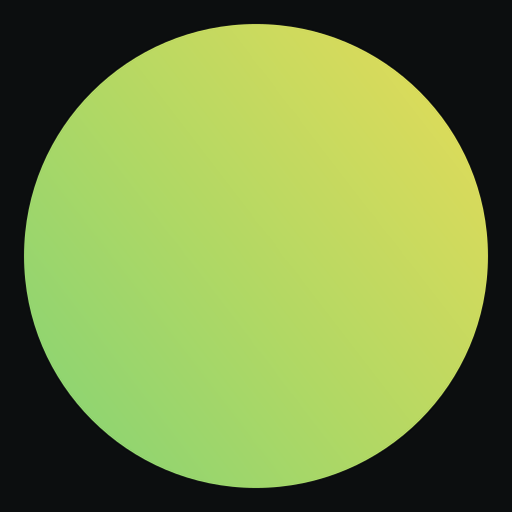
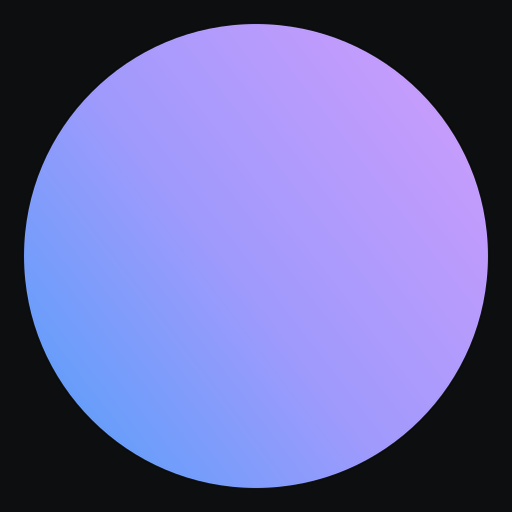
Move the accent family and hero wash from green/yellow to blue/purple
New default wash, `iris`: a bright blue highlight (H 252) falling into deep
purple (H 300). It sits under the 60° span floor and holds together on a 0.22
lightness gap instead, the way `fuchsia` does. `teal` stays as an alternate.

Tokens follow the wash: accent `oklch(0.7 0.15 258)` (7.2:1, down from 10.9:1 —
blues clip above L ≈ 0.72 at this chroma), accent-warm `oklch(0.76 0.15 305)`,
both ramps blue→periwinkle→purple, and the ink greys moved from H 150/160 to
H 280 so large type loses its green cast. ink-faint goes to L 0.61 to hold 5.1:1.

`--color-status` stays green on purpose: green means go.

Favicon, touch/manifest icons and the default OG card regenerated from the new
palette. Docs and comments updated to match.

diff --git a/src/styles/global.css b/src/styles/global.css
@@ -111,15 +111,15 @@
   /* Colour. Dark is the only mode. The surface is a near-neutral dark grey
      (almost black) — colour comes from the accents and the hero wash, not the
      page itself. Chroma is kept minimal so it never reads as a tinted page. */
-  --color-ink: oklch(0.97 0.005 150);
-  --color-ink-dim: oklch(0.72 0.012 160); /* ~7.6:1 on --color-surface */
+  --color-ink: oklch(0.97 0.005 280);
+  --color-ink-dim: oklch(0.72 0.012 280); /* ~7.6:1 on --color-surface */
   /* Used almost exclusively at 12px, where WCAG AA needs 4.5:1. Do not darken
      below L≈0.58. */
-  --color-ink-faint: oklch(0.6 0.014 160);
+  --color-ink-faint: oklch(0.61 0.014 280);
   /* Lead copy — any paragraph set larger than `--text-body`.
      Neutral white with alpha rather than a tinted grey: `--color-ink-dim` sits
-     at hue 160 with a little chroma, which is invisible at body size but reads
-     as a faint green cast once the type is big. Before this existed, large
+     at hue 280 with a little chroma, which is invisible at body size but reads
+     as a faint violet cast once the type is big. Before this existed, large
      paragraphs were split four ways across `text-white/90`, `text-white/70`,
      `text-ink` and `text-ink-dim`. */
   --color-ink-lead: oklch(1 0 0 / 0.82);
@@ -131,7 +131,7 @@
      so the frame stays consistent over any backdrop. */
   --color-line: oklch(1 0 0 / 0.14);
 
-  /* The brand green, seated in the same family as the hero wash.
+  /* The brand blue, seated in the same family as the hero wash.
 
      **Keep it inside sRGB.** An earlier value, `oklch(0.84 0.19 168)`, was out
      of gamut — its red channel resolved to -0.065 and got clamped to zero, so it
@@ -139,36 +139,29 @@
      rather than the colour written down. That clipping is what made it read
      electric-mint next to a wash whose own teal tops out at C 0.12.
 
-     H 174 fixed the clipping but still read minty: mint is a *light blue-green*,
-     and the fix for that is hue, not chroma. This sits at H 138 — a yellow-green
-     that leans toward <NoiseGradient>'s khaki highlight (H 100) rather than its
-     teal blob (H 178), chosen against the live hero. 10.9:1 on --color-surface,
-     so it still clears AA comfortably as small link text.
+     This sits at H 258 — a bright blue on <NoiseGradient>'s `iris` highlight
+     (H 252), so links and the h1's full stop read as part of the light source.
+     7.2:1 on --color-surface, comfortably clear of AA as small link text.
 
-     **Greens have room and warm hues do not**, which is the one thing worth
-     carrying forward from the coral this reverted to green from. sRGB's warm
-     quadrant is its smallest — the red channel saturates at 255 long before the
-     other two — so the chroma ceiling falls steeply as lightness rises: measured
-     at H 22, C 0.155 at L 0.74 but only C 0.10 at L 0.82. This green holds C 0.15
-     at L 0.80 without trying. If the family is ever taken warm again, the rule is
-     lower the lightness to buy the chroma back; raising L and holding C ships a
-     pale salmon, or clips. */
-  --color-accent: oklch(0.8 0.15 138);
-  /* The warm end, on the hero wash's own khaki highlight, so gradient tails
-     resolve into a colour already present in the backdrop. Only 30° from the
-     accent now that the accent is itself yellow-green — that is deliberately
-     tight, but it is the whole room the ramps have. Don't push the accent any
-     warmer without moving this too, or the gradients flatten out entirely.
+     **Blues have far less headroom than the green this replaced.** The green
+     held C 0.15 at L 0.80 without trying; at H 250–260 C 0.15 clips above
+     L ≈ 0.72, which is why this is darker than the green was. If it ever needs
+     to be brighter, drop the chroma — raising L and holding C clips the red
+     channel. The warm quadrant is tighter still (at H 22, C 0.155 at L 0.74 but
+     only C 0.10 at L 0.82): either way, lower the lightness to buy chroma back. */
+  --color-accent: oklch(0.7 0.15 258);
+  /* The far end, a lilac purple on the hero wash's own purple body (H 300), so
+     gradient tails resolve into a colour already present in the backdrop. 47°
+     from the accent — enough to read as blue *into* purple rather than one
+     colour, without the ramps becoming a rainbow swipe. The name is historical
+     (it was the yellow end); the role is the same.
      Secondary: gradient tails, never body text. */
-  --color-accent-warm: oklch(0.86 0.15 108);
+  --color-accent-warm: oklch(0.76 0.15 305);
   /* Availability indicator. Kept as its own token so the signal can be retuned
-     independently, but pulled into the accent's family — the dot and the brand
-     mark share a nav, and two different greens there read as a mistake.
-     Slightly lighter than the accent so it still registers as "lit". 12.6:1.
-
-     Green also means go, which is worth having back: the label beside it reads
-     "Available for work", so the words carry the meaning either way, but a green
-     dot needs no reading at all. */
+     independently. **Deliberately left green** when the accent went blue/purple:
+     green means go, and a green dot needs no reading at all. It is the one
+     colour on the page outside the accent family, and small enough to carry it.
+     12.4:1. */
   --color-status: oklch(0.84 0.14 140);
 
   /* Motion — shared between CSS and GSAP so the two never disagree. */
@@ -348,18 +341,18 @@
   /* The two accent ramps. `--gradient-accent` is built for a headline's width;
      `--gradient-accent-compact` starts warmer and finishes inside the box, for
      runs of four or five glyphs — a stat figure, a number disc, an icon tile.
-     Pick by run length: across 24px the long ramp never leaves its green. */
+     Pick by run length: across 24px the long ramp never leaves its blue. */
   --gradient-accent: linear-gradient(
     120deg,
-    oklch(0.77 0.14 160),
-    var(--color-accent) 45%,
-    oklch(0.86 0.15 112)
+    var(--color-accent),
+    oklch(0.72 0.14 280) 45%,
+    var(--color-accent-warm)
   );
   --gradient-accent-compact: linear-gradient(
     110deg,
     var(--color-accent) 0%,
-    oklch(0.83 0.15 125) 45%,
-    oklch(0.87 0.15 108) 100%
+    oklch(0.73 0.14 285) 45%,
+    oklch(0.77 0.14 305) 100%
   );
 }
 
@@ -407,20 +400,15 @@
 
      **Keep the hue span narrow, and every stop inside sRGB.** Both ramps used
      to run cyan→green→yellow, roughly 88° of hue, which on a two-word phrase
-     reads as a rainbow swipe rather than a sheen on the brand colour. Both are
-     now ~48°, sitting either side of `--color-accent`. If a ramp ever needs
+     reads as a rainbow swipe rather than a sheen on the brand colour. Both now
+     run ~47°, from `--color-accent`'s blue to `--color-accent-warm`'s purple. If a ramp ever needs
      more range, widen the lightness, not the hue.
 
-     Chroma is held at 0.13-0.14 throughout for the same reason `--color-accent`
+     Chroma is held at 0.14–0.15 throughout for the same reason `--color-accent`
      is: past that, these hues fall out of sRGB at these lightnesses and the
      browser clamps a channel, which reads as a hard electric edge partway
-     along the ramp.
-
-     That flat chroma is a *green* luxury and would not survive going warm. The
-     warm quadrant's ceiling falls steeply as lightness rises (roughly C 0.15 at
-     L 0.74, C 0.10 at L 0.82), so a coral version of these ramps needs every
-     stop at its own maximum instead — worth knowing before anyone tries it
-     again.
+     along the ramp. Lightness rises along the ramp (0.70 → 0.77) because purple
+     has more headroom than blue — the blue end is the one at its ceiling.
 
      The descendant selector matters: SplitText rewraps the hero heading and
      moves the period's text into a child element, which would leave the span
@@ -435,11 +423,11 @@
     color: transparent;
   }
 
-  /* The same green→yellow idea, retuned for stat figures.
+  /* The same blue→purple idea, retuned for stat figures.
 
      `.accent-gradient` is built for long runs of text — a full headline — so
      its 120deg ramp only reaches the warm end after a good deal of width. A
-     stat is four or five glyphs, which lands entirely inside the green and
+     stat is four or five glyphs, which lands entirely inside the blue and
      reads as flat colour. This starts warmer and finishes the ramp inside the
      box, so the warm end is actually visible at "98%". */
   .stat-gradient {

diff --git a/docs/design-system/tokens.md b/docs/design-system/tokens.md
@@ -15,18 +15,18 @@ the page.
 
 | Token | Value | Notes |
 | --- | --- | --- |
-| `--color-ink` | `oklch(0.97 0.005 150)` | Headings, display narrative, `<dd>` values |
+| `--color-ink` | `oklch(0.97 0.005 280)` | Headings, display narrative, `<dd>` values |
 | `--color-ink-lead` | `oklch(1 0 0 / 0.82)` | Lead paragraphs — 12.2:1 |
-| `--color-ink-dim` | `oklch(0.72 0.012 160)` | 7.9:1 on surface |
-| `--color-ink-faint` | `oklch(0.6 0.014 160)` | **5.0:1 — do not darken below L=0.58** |
+| `--color-ink-dim` | `oklch(0.72 0.012 280)` | 7.8:1 on surface |
+| `--color-ink-faint` | `oklch(0.61 0.014 280)` | **5.1:1 — do not darken below L=0.58** |
 | `--color-surface` | `oklch(0.16 0.004 240)` | The page |
 | `--color-surface-lift` | `oklch(0.21 0.006 240)` | Raised fills |
 | `--color-line` | `oklch(1 0 0 / 0.14)` | Every hairline |
-| `--color-accent` | `oklch(0.8 0.15 138)` | Brand green, 10.9:1 |
-| `--color-accent-warm` | `oklch(0.86 0.15 108)` | Gradient tails only, never body text |
-| `--color-status` | `oklch(0.84 0.14 140)` | Availability, 12.4:1 |
+| `--color-accent` | `oklch(0.7 0.15 258)` | Brand blue, 7.2:1 |
+| `--color-accent-warm` | `oklch(0.76 0.15 305)` | Purple — gradient tails only, never body text |
+| `--color-status` | `oklch(0.84 0.14 140)` | Availability, 12.4:1 — **green on purpose** |
 
-Five rules, each of which cost something to learn:
+Rules, each of which cost something to learn:
 
 **Every accent stop must be inside sRGB.** An earlier `--color-accent` was
 `oklch(0.84 0.19 168)`, whose red channel resolves to **-0.065** — the browser
@@ -36,37 +36,34 @@ converts without a negative channel. Chroma past the gamut edge is not more
 vibrant — it is clipped, and it clips inconsistently across hues, which is
 exactly how a palette drifts out of family.
 
-**Mint is a light blue-green; the fix for it is hue, not chroma.** Fixing the
-clipping (H 168 → 174) removed the electric edge but still read minty. The accent
-is **H 138**, a yellow-green leaning toward `<NoiseGradient>`'s khaki highlight
-(H 100) rather than its teal blob (H 178). That was chosen by rendering
-H 138/150/162 against the live hero, not by reasoning about it.
-
-**Greens have room; warm hues do not.** This family was taken out to a coral
-(`oklch(0.76 0.14 22)`) and brought back, and the measurement is the thing worth
-keeping from the trip. sRGB's warm quadrant is its *smallest*, because the red
-channel saturates at 255 long before the other two — so the chroma ceiling falls
-steeply as lightness rises. Measured at H 22: **C 0.155 at L 0.74, C 0.125 at
-L 0.78, C 0.10 at L 0.82.** This green holds C 0.15 at L 0.80 without trying.
-**If the family ever goes warm again, lower the lightness to buy the chroma
-back** — raising L and holding C ships a pale salmon, or clips. It is also why a
-warm version of the ramps cannot share one chroma across their stops the way
-these do.
-
 **The accent follows the hero wash, not the other way round.** It is tuned to
-`<NoiseGradient>`'s default `teal` variant — khaki highlight, emerald body — so a
-gradient tail resolves into a colour already present behind it. **Changing the
-default variant means moving these three tokens with it**, or the page ends up
-with an orphaned hue, which reads as an oversight rather than as an accent.
+`<NoiseGradient>`'s default `iris` variant — bright blue highlight, deep purple
+body — so the accent sits on the highlight (H 258 against H 252) and the warm
+token on the body (H 305 against H 300), and a gradient tail resolves into a
+colour already present behind it. **Changing the default variant means moving
+the accent tokens with it**, or the page ends up with an orphaned hue, which
+reads as an oversight rather than as an accent.
 
-**`--color-accent-warm` is only 30° away.** That is tight, but it is the entire
-range the gradients have. Don't push the accent warmer without moving the warm
-token too, or both ramps flatten into one colour.
+**Blues have far less headroom than greens.** The family has been green
+(`oklch(0.8 0.15 138)`), out to coral and back, and is now blue/purple. The green
+held C 0.15 at L 0.80 without trying; at H 250–260, C 0.15 clips above L ≈ 0.72,
+which is why the accent is darker than the green was and its contrast dropped
+from 10.9:1 to 7.2:1 — still well clear of AA. Purple has more room than blue,
+which is why the ramps rise in lightness toward the purple end. Warm hues are
+tightest of all — **at H 22: C 0.155 at L 0.74, C 0.125 at L 0.78, C 0.10 at
+L 0.82.** Whatever the hue, **lower the lightness to buy chroma back**; raising L
+and holding C clips.
 
-**`--color-status` keeps green-means-go.** It was briefly spent on family
-coherence while the palette was coral — defensible, since the label beside it
-reads "Available for work" and the words carry the meaning. Back on green the dot
-needs no reading at all, which is the better end of that trade.
+**`--color-accent-warm` is 47° from the accent.** The name dates from the yellow
+end of the old ramps; the role — the far end of every gradient — is unchanged.
+Much closer and the ramps flatten into one colour; much further and a two-word
+phrase reads as a rainbow swipe.
+
+**`--color-status` stays green-means-go.** It is the one colour outside the
+accent family, deliberately: the dot needs no reading at all when it is green,
+and it is small enough that it never competes with the brand. It was briefly
+spent on family coherence while the palette was coral, and that was the worse
+end of the trade.
 
 **Paragraph copy has exactly two roles, and they are set by size.**
 
@@ -78,8 +75,8 @@ needs no reading at all, which is the better end of that trade.
 | Display narrative — the story beats, the impact beats — and `<dd>` values | `--color-ink` |
 
 `--color-ink-lead` is **neutral white with alpha, not a tinted grey**:
-`--color-ink-dim` sits at hue 160 with a little chroma, which is invisible at
-body size and reads as a faint green cast once the type is big. That is why lead
+`--color-ink-dim` sits at hue 280 with a little chroma, which is invisible at
+body size and reads as a faint violet cast once the type is big. That is why lead
 copy cannot simply reuse it.
 
 Before this token existed, large paragraphs were split four ways —
@@ -102,7 +99,7 @@ editing the number here.
 
 **One accent palette, site-wide.** Case studies used to carry a per-entry hue in
 frontmatter (Tribute teal, Peterson's green, V3 amber). That is gone: the brand
-green/yellow is the only accent anywhere, so the pages doing the most persuading
+blue/purple is the only accent anywhere, so the pages doing the most persuading
 are the ones wearing the brand. Don't reintroduce a per-page hue without a reason
 that survives seeing all five studies side by side.
 

diff --git a/AGENTS.md b/AGENTS.md
@@ -61,8 +61,9 @@ Read those before touching anything visual. The short version, for orientation:
   **one accent palette** site-wide, **one radius** (`--radius-ui`, 3px). Every
   exception is listed in `tokens.md`; if it is not on that list, it is a mistake.
 - **The accent follows the hero wash.** `--color-accent` / `-warm` / `--color-status`
-  are tuned to `<NoiseGradient>`'s default `teal` variant. Changing that
-  default means moving those three tokens and both gradient ramps with it, or
+  are tuned to `<NoiseGradient>`'s default `iris` variant (bright blue into deep
+  purple; the status dot alone stays green on purpose). Changing that default
+  means moving the accent tokens and both gradient ramps with it, or
   the page ends up with an orphaned hue.
 - **The three display steps are one ladder** — `--text-display` /
   `--text-title` / `--text-stat`, 80/60/48 at 1440. Move one and you have to
@@ -590,7 +591,7 @@ keeping it out from behind the fixed nav).
 
 `luminosity` is the whole trick: hue and saturation come from the hero wash
 underneath and only the image's light and shade survive, so a full-colour
-product screenshot resolves into the page's own green rather than sitting on it
+product screenshot resolves into the page's own blue and purple rather than sitting on it
 as a foreign rectangle. Two rules if you retune it: **grayscale first** (or the
 source's colour leaks at the blend edges), and **keep it below the threshold
 where the UI inside the screenshot becomes legible** — the moment individual
@@ -604,7 +605,7 @@ Two consequences worth knowing before adding it back:
   full-bleed hero image; with no counterpart on the case study page, an
   unpaired name animates the tile out on its own. It is a plain cross-fade now.
 - The hero's colour comes from `.hero-wash`, a low-alpha radial pair of the
-  brand green and warm yellow, plus `.hero-grain` — the same inline-SVG fractal
+  brand blue and purple, plus `.hero-grain` — the same inline-SVG fractal
   noise `<NoiseGradient />` uses, copied rather than imported because that
   component brings its own fixed-palette blobs sized for a full-viewport hero.
   With no cover on the page, the wash is the only thing carrying colour above

diff --git a/docs/design-system/components.md b/docs/design-system/components.md
@@ -16,7 +16,9 @@ Everything in `src/components/`. Astro components unless noted.
 **A `NoiseGradient` palette needs two hues far enough apart to be counted.** The
 blobs stack in the same corner under a 50px blur, so anything spanning less than
 ~60° composites into one colour with a light end and a dark end. `teal` spans 78°
-(khaki → emerald) and is the floor, not the target; `solstice` spans 165°
+(khaki → emerald) and is the floor, not the target — the default, `iris` (bright
+blue → deep purple, 48°), sits under it and holds together on a 0.22 lightness
+gap instead, the same way `fuchsia` does; `solstice` spans 165°
 (amber → ocean blue) and `acid` 174° (lime → violet). A first pass at an
 alternate ran cyan over indigo — 44° — and read as flat blue despite being two
 blobs, two gradients and a tint.
@@ -66,7 +68,7 @@ bar must be checked against that 310px budget.**
 
 The nav deliberately has **no `mix-blend-mode`**. Difference blending kept a
 monochrome bar legible over any backdrop, but it inverts the green availability
-dot to magenta and the wordmark's accent dot to blue; the scroll-triggered scrim
+dot to magenta and the wordmark's accent dot to orange; the scroll-triggered scrim
 replaces it.
 
 ## Page sections

diff --git a/docs/design-system/patterns.md b/docs/design-system/patterns.md
@@ -207,16 +207,16 @@ what made it feel secondary in the first place.
 
 ## Gradient text, and animating it
 
-Two utilities, both green→yellow, both `background-clip: text` over real text:
+Two utilities, both blue→purple, both `background-clip: text` over real text:
 
 - `.accent-gradient` — long runs (headlines, a highlighted word). Its 120deg ramp
   needs width to reach the warm end.
 - `.stat-gradient` — stat figures. Same idea, retuned: a stat is four or five
-  glyphs, which lands entirely inside `.accent-gradient`'s green and reads as
+  glyphs, which lands entirely inside `.accent-gradient`'s blue and reads as
   flat colour, so this one starts warmer and finishes inside the box.
 
 **Pick by run length, not by taste.** Across a 24px disc (`VibeCodingDiagram`'s
-number discs and icon tiles) `.accent-gradient` never leaves its green — those
+number discs and icon tiles) `.accent-gradient` never leaves its blue — those
 use the `.stat-gradient` ramp via `--vcd-fill`.
 
 **To animate one in, stack it — don't transition it.** `background-image` is not

diff --git a/docs/design-system/README.md b/docs/design-system/README.md
@@ -84,7 +84,7 @@ and the numbers in CI are computed by the same code.
 ## Brand assets
 
 **Favicon** — `public/favicon.svg` is the source of truth. The mark is the
-wordmark's accent dot at icon scale, filled with the compact green→yellow ramp
+wordmark's accent dot at icon scale, filled with the compact blue→purple ramp
 the display type uses for its full stop. **No tile behind it**: in a row of
 square favicons a bare circle is the thing that reads as different, and
 transparency lets it sit on whatever the browser's tab strip is doing. An
